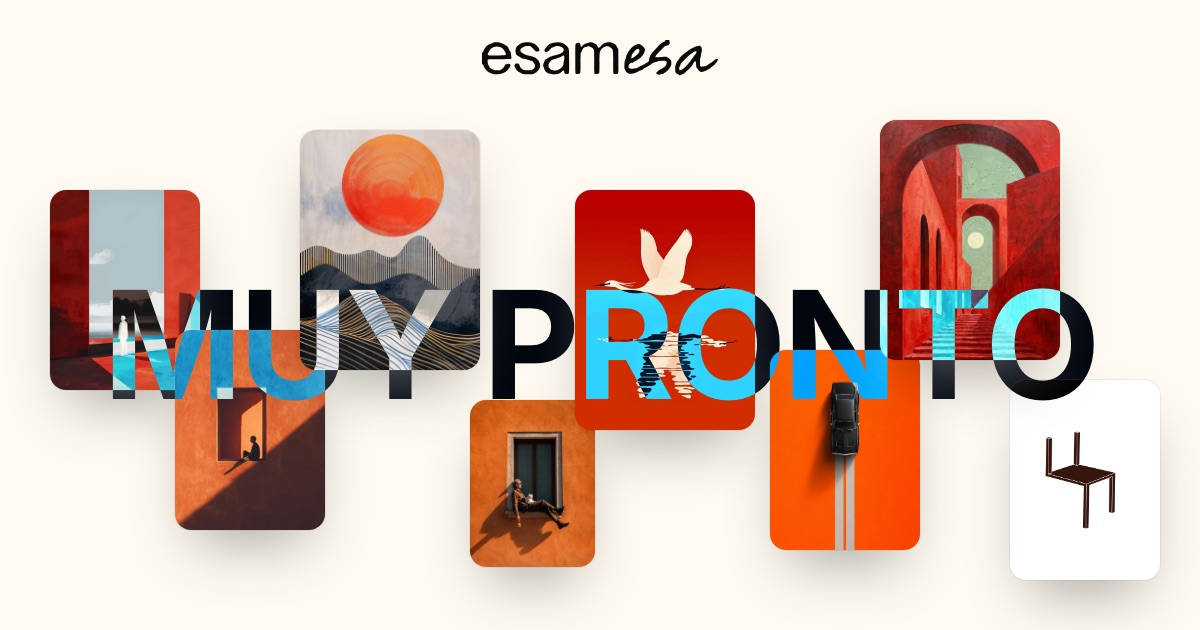
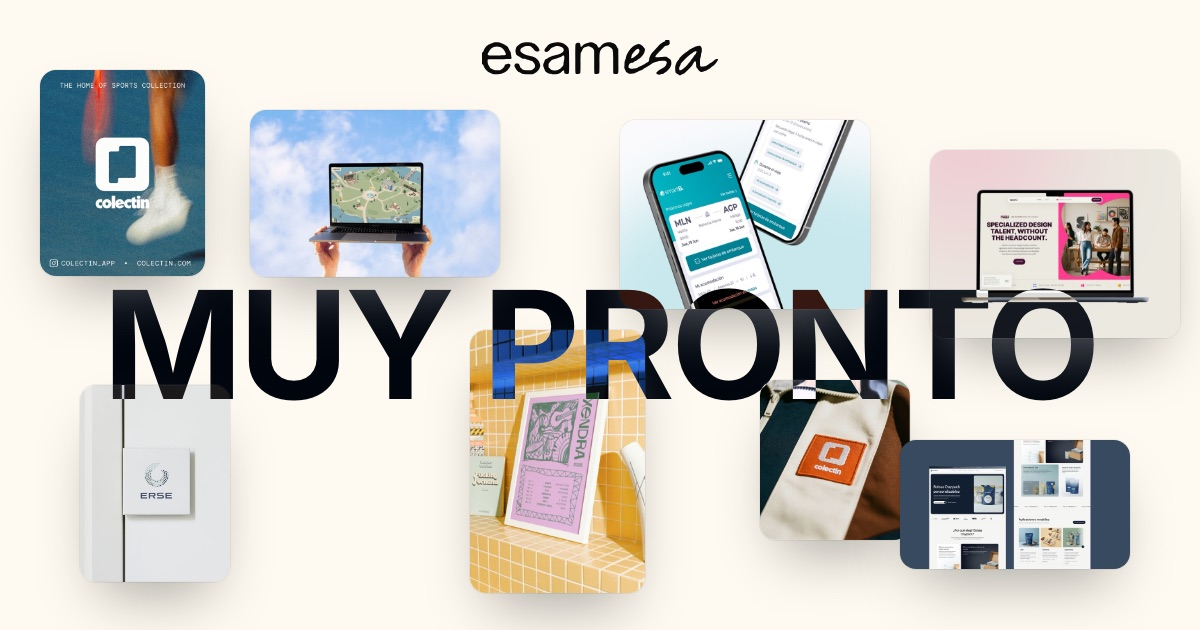
Replace template art with esamesa's own work in the gallery
- Swap the 8 template images for 15 pieces of studio work (ERSE, XENDRA,
  Colectin, TalentL, smartB, smartship, Capchase, JACKROM, digital power
  app), resized to 520/720 px wide JPEGs.
- Cards keep each image's own proportions (new `ratio` field); landscape
  pieces get wider card sizes.
- Cards now cross the screen and then wait off-screen for the rest of the
  cycle (`phase` replaces `delay`), so about seven are visible at once and
  every piece gets its turn.
- Regenerate the Open Graph image with the new work and update the README.

diff --git a/src/components/marquee.tsx b/src/components/marquee.tsx
@@ -3,65 +3,71 @@ import { asset } from "@/lib/base-path";
 
 type Card = {
   src: string;
+  // Width / height of the image file, so each piece keeps its own proportions.
+  ratio: number;
   width: string;
   ty: number;
   dur: number;
-  delay: number;
+  // Fraction of the cycle already elapsed at load. Below 0.5 the card is
+  // crossing the screen (closer to 0 = further right); from 0.5 up it waits
+  // off-screen and enters after (1 - phase) * dur seconds.
+  phase: number;
   z: number;
-  // For transparent illustrations: frame them on a solid background and fit the
-  // whole image (contain) instead of cropping (cover).
-  bg?: string;
-  contain?: boolean;
 };
 
-const LG = "clamp(140px,13vw,190px)";
-const MD = "clamp(120px,11vw,164px)";
-const SM = "clamp(96px,9vw,130px)";
+// Portrait pieces.
+const LG = "clamp(120px,13vw,190px)";
+const MD = "clamp(104px,11vw,164px)";
+// Landscape pieces are wider so every piece carries a similar visual weight.
+const WL = "clamp(170px,19vw,280px)";
+const WM = "clamp(150px,16vw,236px)";
+const WS = "clamp(130px,13vw,190px)";
 
-// Each card crosses the screen at its own speed (larger/closer art moves
-// faster, smaller/farther slower) and has its own depth (`z`), so cards pass
-// in front of or behind one another — matching the reference parallax. All
-// cards render above the wordmark, which they scroll over. `delay` (negative)
-// sets the starting phase so cards are spread across the viewport at load.
+// Each card crosses the screen at its own speed and has its own depth (`z`), so
+// cards pass in front of or behind one another — matching the reference
+// parallax. After crossing, a card waits off-screen for the rest of its cycle
+// (see `cross` in globals.css): only about half of the pieces are on screen at
+// once and every piece gets its turn. The wordmark sits above the cards and
+// blends against them.
 const CARDS: Card[] = [
-  { src: "/gallery/art-1.jpg", width: MD, ty: -70, dur: 34, delay: -3.4, z: 2 },
-  { src: "/gallery/art-2.jpg", width: MD, ty: 20, dur: 32, delay: -7.7, z: 4 },
-  { src: "/gallery/art-3.jpg", width: LG, ty: -34, dur: 26, delay: -9.9, z: 6 },
-  { src: "/gallery/art-4.jpg", width: SM, ty: 52, dur: 40, delay: -20, z: 1 },
-  { src: "/gallery/art-5.jpg", width: LG, ty: 86, dur: 24, delay: -14.4, z: 7 },
-  { src: "/gallery/art-6.jpg", width: MD, ty: 14, dur: 34, delay: -25.2, z: 3 },
-  { src: "/gallery/art-7.jpg", width: LG, ty: -78, dur: 27, delay: -23.8, z: 5 },
-  {
-    src: "/gallery/art-8.png",
-    width: MD,
-    ty: 60,
-    dur: 30,
-    delay: -12,
-    z: 4,
-    bg: "#ffffff",
-    contain: true,
-  },
+  // On screen at load, spread from right to left.
+  { src: "/gallery/xendra-poster.jpg", ratio: 520 / 780, width: LG, ty: -10, dur: 62, phase: 0.06, z: 12 },
+  { src: "/gallery/talentl-laptop.jpg", ratio: 720 / 540, width: WL, ty: 60, dur: 70, phase: 0.12, z: 6 },
+  { src: "/gallery/colectin-patch.jpg", ratio: 520 / 553, width: MD, ty: -55, dur: 58, phase: 0.18, z: 9 },
+  { src: "/gallery/smartb.jpg", ratio: 720 / 545, width: WL, ty: 20, dur: 76, phase: 0.25, z: 13 },
+  { src: "/gallery/erse.jpg", ratio: 520 / 683, width: MD, ty: -85, dur: 66, phase: 0.31, z: 4 },
+  { src: "/gallery/colectin-poster.jpg", ratio: 520 / 650, width: LG, ty: 40, dur: 56, phase: 0.37, z: 11 },
+  { src: "/gallery/capchase-web.jpg", ratio: 720 / 551, width: WM, ty: -30, dur: 72, phase: 0.44, z: 7 },
+  // Waiting off-screen, entering one after another over the first ~35 s.
+  { src: "/gallery/xendra-web.jpg", ratio: 720 / 480, width: WM, ty: -70, dur: 68, phase: 0.96, z: 2 },
+  { src: "/gallery/jackrom.jpg", ratio: 720 / 405, width: WS, ty: 80, dur: 80, phase: 0.91, z: 1 },
+  { src: "/gallery/poder-digital-1.jpg", ratio: 720 / 405, width: WM, ty: 10, dur: 64, phase: 0.83, z: 5 },
+  { src: "/gallery/smartship.jpg", ratio: 520 / 564, width: MD, ty: -45, dur: 60, phase: 0.73, z: 8 },
+  { src: "/gallery/colectin-web.jpg", ratio: 720 / 615, width: WM, ty: 50, dur: 74, phase: 0.72, z: 14 },
+  { src: "/gallery/talentl-about.jpg", ratio: 720 / 466, width: WS, ty: -20, dur: 82, phase: 0.68, z: 3 },
+  { src: "/gallery/capchase-deals.jpg", ratio: 720 / 405, width: WS, ty: 90, dur: 78, phase: 0.62, z: 10 },
+  { src: "/gallery/poder-digital-2.jpg", ratio: 720 / 506, width: WS, ty: -60, dur: 84, phase: 0.58, z: 15 },
 ];
 
 function Frame({ card }: { card: Card }) {
   const style: CSSProperties = {
     width: card.width,
+    aspectRatio: card.ratio,
     zIndex: card.z,
-    ...(card.bg ? { backgroundColor: card.bg } : {}),
     ["--ty" as string]: `${card.ty}px`,
     ["--dur" as string]: `${card.dur}s`,
-    ["--delay" as string]: `${card.delay}s`,
+    ["--delay" as string]: `${(-card.phase * card.dur).toFixed(2)}s`,
   };
   return (
     <div
-      className="pcard aspect-[3/4] overflow-hidden rounded-2xl shadow-[0_30px_60px_-20px_rgba(0,0,0,0.35)] ring-1 ring-black/5"
+      className="pcard overflow-hidden rounded-2xl shadow-[0_30px_60px_-20px_rgba(0,0,0,0.35)] ring-1 ring-black/5"
       style={style}
     >
       {/* eslint-disable-next-line @next/next/no-img-element */}
       <img
         src={asset(card.src)}
         alt=""
-        className={`h-full w-full ${card.contain ? "object-contain p-4" : "object-cover"}`}
+        className="h-full w-full object-cover"
         loading="eager"
         draggable={false}
       />

diff --git a/src/app/globals.css b/src/app/globals.css
@@ -31,14 +31,17 @@ body {
 }
 
 /* Parallax field: each card crosses the viewport independently at its own
-   speed (--dur), teleporting back while fully off-screen so the loop is
-   invisible. --ty holds the fixed vertical offset; -50% centers the card. */
+   speed (--dur), then waits off-screen for the rest of the cycle, so only about
+   half of the cards are visible at once. It teleports back while fully
+   off-screen, so the loop is invisible. --ty holds the fixed vertical offset;
+   -50% centers the card, and -100% X parks it just past the left edge. */
 @keyframes cross {
-  from {
+  0% {
     transform: translateX(100vw) translateY(calc(var(--ty, 0px) - 50%));
   }
-  to {
-    transform: translateX(-32vw) translateY(calc(var(--ty, 0px) - 50%));
+  50%,
+  100% {
+    transform: translateX(-100%) translateY(calc(var(--ty, 0px) - 50%));
   }
 }
 

diff --git a/README.md b/README.md
@@ -2,8 +2,8 @@
 
 Página _muy pronto_ (coming soon) para el estudio **esamesa**, inspirada en la
 plantilla de Framer [Comolio](https://comolio.framer.website/): fondo color
-papel, un collage de obras de arte cálidas que cruzan la pantalla, cuenta
-regresiva en vivo, el gran texto "MUY PRONTO" que se invierte sobre las obras,
+papel, un collage de trabajos del estudio que cruzan la pantalla, cuenta
+regresiva en vivo, el gran texto "MUY PRONTO" que se invierte sobre las piezas,
 logotipo con tipografía script, redes y correos que se copian con un clic.
 
 Publicada en <https://oliialioli.github.io/esamesa/>.
@@ -49,8 +49,14 @@ npm run lint    # linting
 - **Textos**: la web está en español. Los textos viven en `src/app/page.tsx`
   y `src/components/countdown.tsx`; el idioma y los metadatos, en
   `src/app/layout.tsx`.
-- **Galería**: las imágenes están en `public/gallery/` y su tamaño, posición y
-  velocidad se definen en `src/components/marquee.tsx` (lista `CARDS`).
+- **Galería**: las imágenes están en `public/gallery/` y cada pieza se define en
+  `src/components/marquee.tsx` (lista `CARDS`): archivo, proporción (`ratio` =
+  ancho / alto de la imagen), tamaño, altura (`ty`), velocidad (`dur`), momento
+  del ciclo al cargar (`phase`) y profundidad (`z`). Cada pieza cruza la
+  pantalla y espera fuera de ella el resto del ciclo, así que solo se ven unas
+  siete a la vez. Para añadir una, copia la imagen a `public/gallery/` (basta un
+  JPEG de 720 px de ancho si es apaisada o de 520 px si es vertical) y añade su
+  línea a `CARDS`.
 - **URL pública y metadatos**: `NEXT_PUBLIC_SITE_URL` fija la URL canónica y la
   de las imágenes para redes sociales. Si no se define, usa la de GitHub Pages.
   La imagen para compartir es `public/og.jpg` (1200×630 px, ligera); si cambias
@@ -68,7 +74,7 @@ _Settings → Pages_ no hace falta tocar el código.
 
 ```
 public/
-  gallery/          # obras del collage (art-1…art-7.jpg, art-8.png)
+  gallery/          # piezas del collage (JPEG, varias por proyecto)
   og.jpg            # imagen para compartir en redes (1200×630)
 src/
   app/
@@ -87,5 +93,4 @@ src/
 ## Créditos
 
 Diseño y disposición inspirados en la plantilla Comolio de Framer. Las imágenes
-provienen de la misma plantilla de referencia; sustitúyelas por obra propia de
-esamesa cuando esté disponible.
+del collage son trabajos propios de esamesa.
